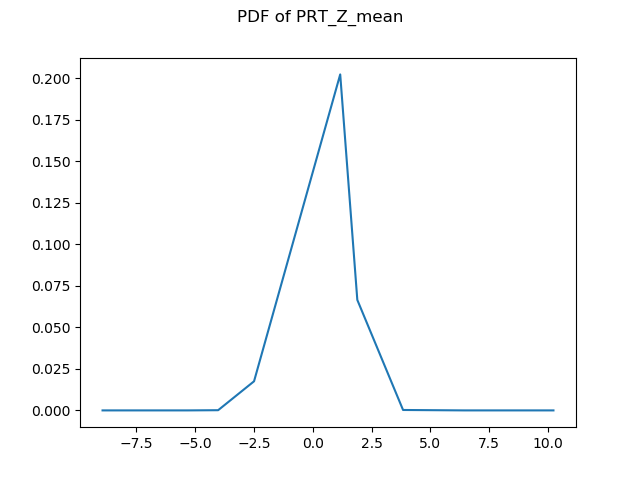
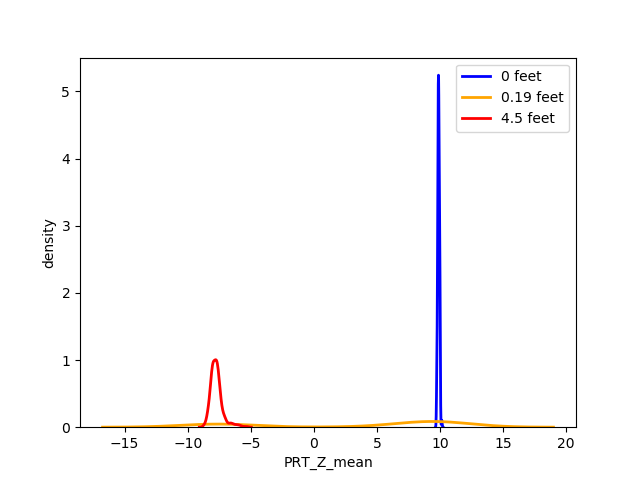
time-series generator

diff --git a/code/plotting/pdf_generator.py b/code/plotting/pdf_generator.py
@@ -10,22 +10,59 @@ import os
 from scipy.stats import norm
 import re
 import matplotlib.pyplot as plt
-
+import seaborn as sns
+from sklearn import preprocessing
 
 dataset  = pd.read_csv(os.path.join('data', 'windowed', 'window_50_stride_25_data.csv'))
 
 cols = dataset.columns
 
-lower, upper = -7, 7
+Y = dataset.iloc[:,-1]
+print(cols)
+#Assigning labels for heights.
+CLR = list(range(len(Y)))
+for i in range(len(Y)):
+    if(Y[i] == 0):
+        CLR[i] = 'a'
+    elif(Y[i] == 0.19):
+        CLR[i] = 'b'
+    elif(Y[i] == 2.5):
+        CLR[i] = 'c'
+    elif(Y[i] == 4.5):
+        CLR[i] = 'd'
 
-#print(cols)
+Y = CLR
+colors = ['#E69F00', '#56B4E9', '#F0E442', '#009E73']
+lower, upper = -10, 10
 
 for i in range(len(cols)):
-    if re.match(r'PRT.*',cols[i]):
+    if re.match(r'PRT_Z_mean.*',cols[i]) or re.match(r'GYROSCOPE_Y_mean',cols[i]):
         x = dataset.iloc[:, i]
-        x = np.sort(x)
+        #x = preprocessing.normalize(np.array(x).reshape(-1, 1))
+        #x = [lower + (upper - lower) * v for v in x]
+        #x = np.sort(x)
+        line_0 = [x[j] for j in range(0,len(x)) if Y[j] == 'a']
+        line_0 = np.sort(line_0)
+        line_0_19 = [x[j] for j in range(0,len(x)) if Y[j] == 'b']
+        line_0_19 = np.sort(line_0_19)
+        line_2_5 = [x[j] for j in range(0,len(x)) if Y[j] == 'c']
+        line_2_5 = np.sort(line_2_5)
+        line_4_5 = [x[j] for j in range(0,len(x)) if Y[j] == 'd']
+        line_4_5 = np.sort(line_4_5)
+        
         path = os.path.join("plots", "PDFs", cols[i])
-        plt.plot(x, norm.pdf(x))
-        plt.suptitle("PDF of " + cols[i])
-        plt.savefig(path + ".png")
+        #plt.plot(line_0, norm.pdf(line_0))
+        #plt.plot(line_0_19, norm.pdf(line_0_19))
+        #plt.plot(line_2_5, norm.pdf(line_2_5))
+        #plt.plot(line_4_5, norm.pdf(line_4_5))
+        #plt.hist([line_0,line_0_19,line_2_5,line_4_5], color=colors, normed=True)
+        #sns.distplot(line_0, hist = False, kde = True, kde_kws = {'linewidth': 2}, label = "0 feet", color = 'blue')
+        sns.distplot(line_0_19, hist = False, kde = True, kde_kws = {'linewidth': 2}, label = "0.19 feet", color = 'orange')
+        sns.distplot(line_2_5, hist = False, kde = True, kde_kws = {'linewidth': 2}, label = "2.5 feet", color = 'green')
+        sns.distplot(line_4_5  , hist = False, kde = True, kde_kws = {'linewidth': 2}, label = "4.5 feet", color = 'red')
+        plt.legend()
+        plt.xlabel(cols[i])
+        plt.ylabel("density")
+        #plt.suptitle(cols[i])
+        #plt.savefig(path + ".png")
         plt.show()

diff --git a/code/plotting/time-series-generator.py b/code/plotting/time-series-generator.py
@@ -1,0 +1,44 @@
+# -*- coding: utf-8 -*-
+"""
+Created on 6th MAY 2019
+@author: Hardik Ajmani
+"""
+#importing libraries.
+import pandas as pd
+import numpy as np
+import os
+from scipy.stats import norm
+import re
+import matplotlib.pyplot as plt
+import seaborn as sns
+from sklearn import preprocessing
+
+dataset  = pd.read_csv(os.path.join('data', 'transformed', 'transformed_data.csv'))
+
+cols = dataset.columns
+
+Y = dataset.iloc[:,-1]
+print(cols) 
+
+#Assigning labels for heights.
+CLR = list(range(len(Y)))
+for i in range(len(Y)):
+    if(Y[i] == 0):
+        CLR[i] = 'a'
+    elif(Y[i] == 0.19):
+        CLR[i] = 'b'
+    elif(Y[i] == 2.5):
+        CLR[i] = 'c'
+    elif(Y[i] == 4.5):
+        CLR[i] = 'd'
+
+Y = CLR
+
+for i in range(len(cols)):
+    if re.match(r'PRT_Z.*',cols[i]):
+        x = dataset.iloc[:, i]
+        line_2_5 = [x[j] for j in range(0,len(x)) if Y[j] == 'c']
+        plt.plot(range(len(line_2_5)), line_2_5)
+        plt.ylabel(cols[i])
+        plt.xlabel("time")
+        plt.show()
